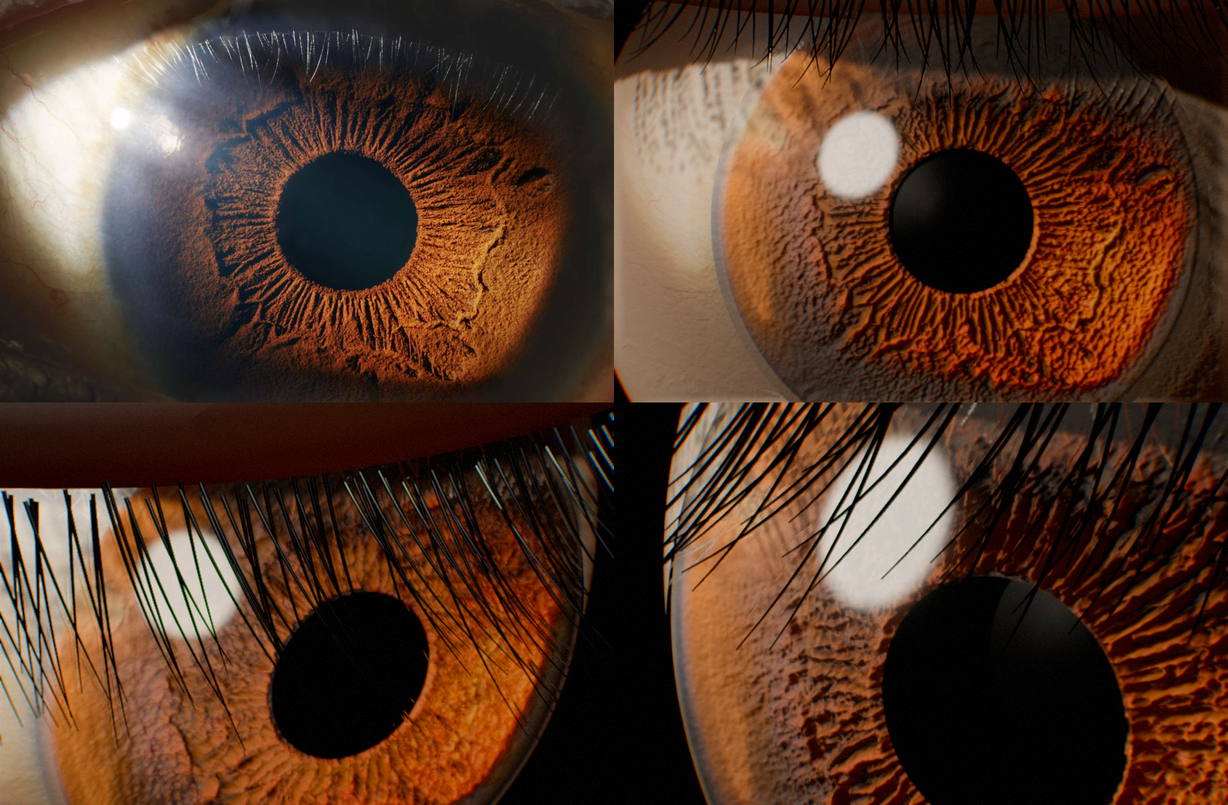
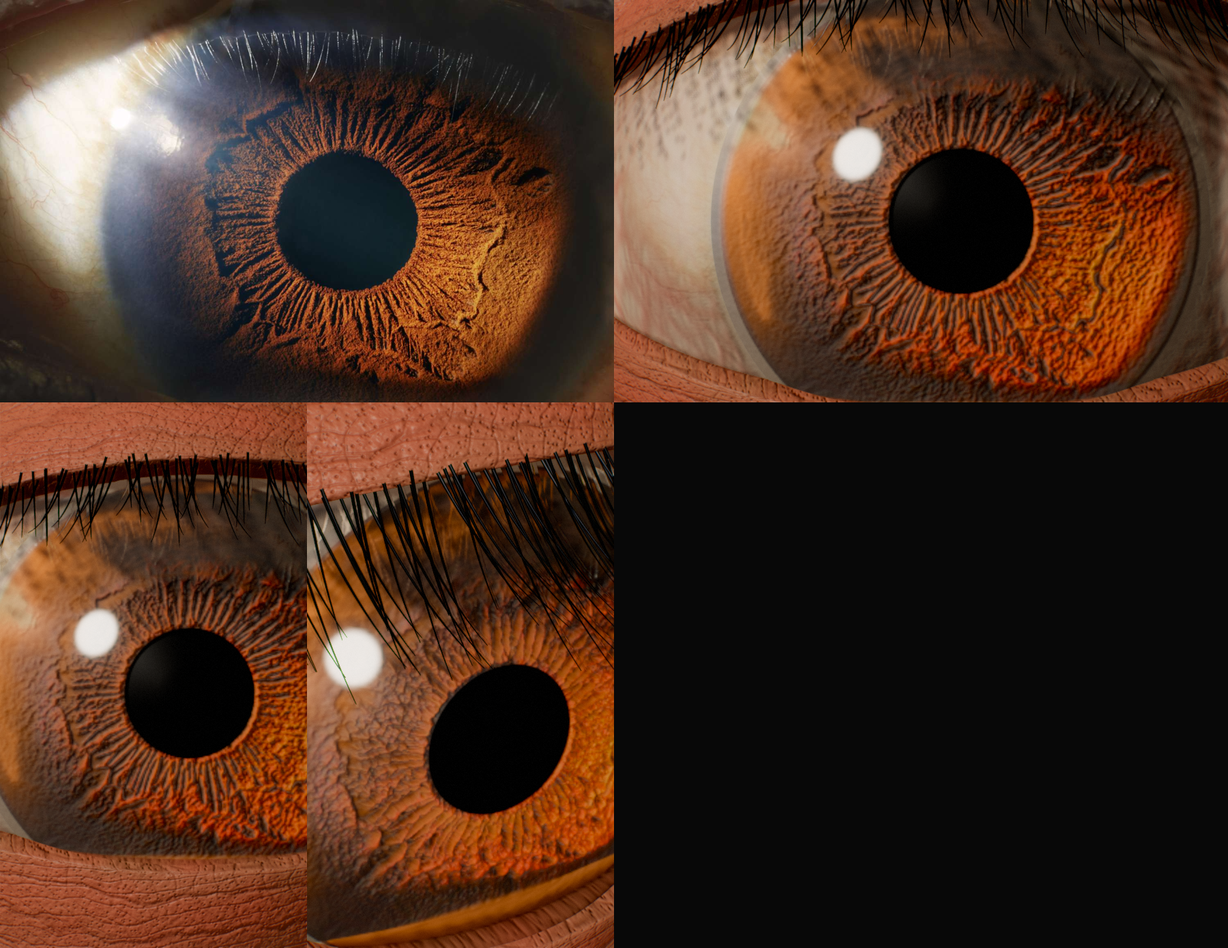
Iris: sharper on phones, real eyelids with skin texture, less plastic eye
- Resolution: new engine option minScale (governor floor); the scene keeps
  >= 0.8 render scale and re-voxelizes GI every 6th frame once converged.
- Eyelids: two skin sheets hugging the eyeball with an almond opening, rounded
  wet margins and an upper-lid crease (replaces the tube lids, no sclera gaps).
- Procedural skin maps (irregular pores, fine creases, blotchy colour, normals)
  at a scale that survives mipmapping; sclera map with blurred branching vessels.
- Velvety iris stroma, gentler relief, smaller corneal highlight, less chromatic
  aberration.

Claude-Session: https://claude.ai/code/session_01CrqiDHUxRRMtQAfhoBc2eP

diff --git a/scenes/iris.html b/scenes/iris.html
@@ -3968,7 +3968,7 @@ function gtPoll(){if(!tq)return;
   if(!dis&&ns>0){const ms=ns/1e6;GT[it.tag]=GT[it.tag]?GT[it.tag]*.9+ms*.1:ms;}}
  if(GT.pend.length>8){GT.pend.forEach(i=>gl.deleteQuery(i.q));GT.pend.length=0;}}
 const gov={hot:0,hist:[],good:0,hold:0,cap:1,capUntil:0,raised:0,pre:0,preScale:0,chk:0,tierCap:2,tierUntil:0};
-const PIXEL_FLOOR=/(Mobi|Android)/i.test(navigator.userAgent)?.5:.6;
+const PIXEL_FLOOR=opts.minScale||(/(Mobi|Android)/i.test(navigator.userAgent)?.5:.6);   /* opts.minScale: the governor never renders below this scale (it cuts tier / caps fps instead) */
 function dropTier(now,why){if(tierIdx>0){tierIdx--;gov.tierCap=tierIdx;gov.tierUntil=now+60000;applyTier();gov.why=why;}}
 function governor(dtMs,now){
  if(qMode!=='auto')return;gov.hist.push(dtMs);if(gov.hist.length>40)gov.hist.shift();
@@ -12714,7 +12714,7 @@ const $=id=>document.getElementById(id),errBox=$('err');
 const fail=m=>{errBox.style.display='block';errBox.textContent+=m+'\n';console.error(m);};
 addEventListener('error',e=>fail('JS: '+e.message+' (line '+e.lineno+')'));
 const Q=new URLSearchParams(location.search);
-const eng=createEngine({canvas:$('c'),onError:fail,onStats:s=>{$('stat').textContent=s;},
+const eng=createEngine({canvas:$('c'),minScale:.8,onError:fail,onStats:s=>{$('stat').textContent=s;},
  onFirstFrame:()=>{$('load').style.opacity='0';setTimeout(()=>{$('load').style.display='none';},900);}});
 if(!eng)return;
 const cam=eng.camera;
@@ -12732,7 +12732,7 @@ const HERO={pos:[PC[0],PC[1],PD],target:[PC[0],PC[1],0],fov:PFOV};
  for(let j=0;j<h;j++)for(let i=0;i<w;i++){const u=i/w,v=j/h,o=(j*w+i)*3,lon=(u-.5)*TAU,th=v*Math.PI,dir=[Math.sin(th)*Math.cos(lon),Math.cos(th),Math.sin(th)*Math.sin(lon)];
   let r=.004,g=.0035,b=.004;
   const k=v3.dot(dir,box),c=v3.dot(dir,card);
-  const sb=sstep(.955,.975,k);r+=60*sb;g+=57*sb;b+=53*sb;              /* softbox: a bright disc, soft rim */
+  const sb=sstep(.984,.992,k);r+=140*sb;g+=134*sb;b+=125*sb;              /* softbox: a bright disc, soft rim */
   const halo=Math.pow(Math.max(k,0),24);r+=.5*halo;g+=.45*halo;b+=.4*halo;
   const cc=sstep(.75,.9,c);r+=.1*cc;g+=.13*cc;b+=.18*cc;                 /* cool card: the blue sheen over the iris's left half */
   d[o]=r;d[o+1]=g;d[o+2]=b;}
@@ -12760,11 +12760,67 @@ function tube(pts,rad,seg){const vb=[],ib=[],n=pts.length;
 function mergeAll(list){let nv=0,ni=0;for(const g of list){nv+=g.vb.length/8;ni+=g.ib.length;}const vb=new Float32Array(nv*8),ib=new Uint32Array(ni);let ov=0,oi=0;
  for(const g of list){vb.set(g.vb,ov*8);for(let k=0;k<g.ib.length;k++)ib[oi+k]=g.ib[k]+ov;ov+=g.vb.length/8;oi+=g.ib.length;}return {vb,ib};}
 
+/* ---------- procedural maps: skin (pores, fine creases, blotchy colour) and sclera (conjunctival vessels) ---------- */
+function hash2(x,y){let h=(x*374761393+y*668265263)|0;h=Math.imul(h^(h>>>13),1274126177);return ((h^(h>>>16))>>>0)/4294967296;}
+function vnoiseT(x,y,P){const xi=Math.floor(x),yi=Math.floor(y),fx=x-xi,fy=y-yi,u=fx*fx*(3-2*fx),v=fy*fy*(3-2*fy);
+ const w=(a,b)=>hash2(((a%P)+P)%P,((b%P)+P)%P);return (w(xi,yi)*(1-u)+w(xi+1,yi)*u)*(1-v)+(w(xi,yi+1)*(1-u)+w(xi+1,yi+1)*u)*v;}
+function fbmT(x,y,P,o){let s=0,a=.5,f=1;for(let i=0;i<o;i++){s+=a*vnoiseT(x*f,y*f,P*f);a*=.5;f*=2;}return s;}
+/* pack height + colour + roughness fields into the engine's map array (normal from the height gradient, tileable) */
+function packMaps(N,H,col,rough,nk){const albedo=new Uint8Array(N*N*4),orm=new Uint8Array(N*N*4),normal=new Uint8Array(N*N*4);
+ for(let y=0;y<N;y++)for(let x=0;x<N;x++){const i=y*N+x,o=i*4,hx=H[y*N+(x+1)%N]-H[y*N+(x+N-1)%N],hy=H[((y+1)%N)*N+x]-H[((y+N-1)%N)*N+x];
+  let nx=-hx*nk,ny=-hy*nk;const l=Math.hypot(nx,ny,1);nx/=l;ny/=l;
+  albedo[o]=col[i*3];albedo[o+1]=col[i*3+1];albedo[o+2]=col[i*3+2];albedo[o+3]=255;
+  orm[o]=Math.round(255*Math.min(1,.55+H[i]*.6));orm[o+1]=Math.round(255*rough[i]);orm[o+2]=0;orm[o+3]=Math.round(255*H[i]);
+  normal[o]=Math.round((nx*.5+.5)*255);normal[o+1]=Math.round((ny*.5+.5)*255);normal[o+2]=255;normal[o+3]=255;}
+ return eng.createMaps({w:N,h:N,albedo,orm,normal});}
+function skinMaps(){const N=512,H=new Float32Array(N*N),col=new Uint8Array(N*N*3),ro=new Float32Array(N*N),C=64;
+ const pts=[];for(let j=0;j<C;j++)for(let i=0;i<C;i++)pts.push([(i+hash2(i,j*7+1))/C,(j+hash2(i*3+5,j))/C,.35+.65*hash2(i+11,j+29)]);
+ for(let y=0;y<N;y++)for(let x=0;x<N;x++){const u=x/N,v=y/N,ci=Math.floor(u*C),cj=Math.floor(v*C);let pore=0;
+  for(let dj=-1;dj<=1;dj++)for(let di=-1;di<=1;di++){const ii=(ci+di+C)%C,jj=(cj+dj+C)%C,p=pts[jj*C+ii];
+   let dx=u-(p[0]+(ci+di-ii)/C),dy=v-(p[1]+(cj+dj-jj)/C);const d2=(dx*dx+dy*dy)*C*C;if(p[2]>.55)pore=Math.max(pore,(p[2]-.45)*1.6*Math.exp(-d2/(.03*p[2])));}   /* irregular: some pores missing, depth varies */
+  const fine=fbmT(u*64,v*64,64,3),warp=fbmT(u*6,v*6,6,3);
+  /* creases run along the lid (u), wavering; plus a finer cross-hatch of skin lines */
+  const cr=.55*Math.pow(Math.abs(Math.sin((v*7+warp*1.2)*Math.PI)),40)+.35*Math.pow(Math.abs(Math.sin((v*19+u*3+warp*2.)*Math.PI)),60)
+   +.3*Math.pow(Math.abs(Math.sin((u*13-v*9+warp*2.5)*Math.PI)),70);
+  const h=.62+.2*(fine-.5)-.3*pore-.24*Math.min(cr,1);H[y*N+x]=Math.max(0,Math.min(1,h));
+  const bl=fbmT(u*5+3,v*5,5,4),fr=Math.pow(fbmT(u*40,v*40+9,40,2),6)*3;
+  const k=1-.1*pore-.12*Math.min(cr,1)-.1*fr-.06*(fine-.5);
+  col[(y*N+x)*3]=Math.round(Math.min(255,(196+26*bl)*k));col[(y*N+x)*3+1]=Math.round((146+12*(1-bl))*k*(1-.05*bl));col[(y*N+x)*3+2]=Math.round((128+8*(1-bl))*k);
+  ro[y*N+x]=Math.min(1,.82+.18*pore+.1*Math.min(cr,1)+.08*(fine-.5));}   /* multiplier on the material roughness */
+ return packMaps(N,H,col,ro,9);}
+function scleraMaps(){const N=512,V=new Float32Array(N*N),H=new Float32Array(N*N),col=new Uint8Array(N*N*3),ro=new Float32Array(N*N);
+ let s=7;const R=()=>{s=(Math.imul(s,1664525)+1013904223)>>>0;return s/4294967296;};
+ /* vessels: random walks from the back of the eye (v = 1) toward the limbus (v = 0), branching and thinning as they go */
+ const stamp=(x,y,w,a)=>{const r=Math.ceil(w*2+1);for(let dy=-r;dy<=r;dy++)for(let dx=-r;dx<=r;dx++){const d=Math.hypot(dx,dy);if(d>w*2+.5)continue;
+  const X=((Math.round(x)+dx)%N+N)%N,Y=Math.round(y)+dy;if(Y<0||Y>=N)continue;V[Y*N+X]=Math.max(V[Y*N+X],a*Math.exp(-d*d/(w*w*1.4+.3)));}};
+ const walk=(x,y,ang,w,a,depth)=>{for(let k=0;k<420&&y>N*.04&&w>.35;k++){ang+=(R()-.5)*.5;x+=Math.cos(ang)*1.5;y+=Math.sin(ang)*1.5-.25;
+  ang+=(-Math.PI/2-ang)*.02;stamp(x,y,w,a);w*=.997;a*=.999;if(depth<4&&R()<.012){walk(x,y,ang+(R()<.5?-1:1)*(.5+R()*.6),w*.7,a*.9,depth+1);}}};
+ for(let i=0;i<34;i++)walk(R()*N,N-1-R()*30,-Math.PI/2+(R()-.5)*.8,1.2+R()*1.4,.3+.35*R(),0);
+ /* soften: 2 box-blur passes so vessels read as blurred capillaries under the conjunctiva, not printed lines */
+ for(let pass=0;pass<2;pass++){const T=V.slice();for(let y=1;y<N-1;y++)for(let x=0;x<N;x++){let a=0;for(let dy=-1;dy<=1;dy++)for(let dx=-1;dx<=1;dx++)a+=T[(y+dy)*N+(x+dx+N)%N];V[y*N+x]=a/9;}}
+ for(let y=0;y<N;y++)for(let x=0;x<N;x++){const i=y*N+x,v=y/N,u=x/N,vs=V[i],mott=fbmT(u*12,v*12,12,4);
+  H[i]=.5+.25*vs+.06*(mott-.5);
+  const tint=Math.min(1,v*1.3),mott2=fbmT(u*5,v*5,5,3);   /* whiter at the limbus, a little pinker and yellower toward the back */
+  const base=[232-16*tint-6*mott2,222-24*tint-6*mott2,210-36*tint-6*mott2];
+  const vc=[150,34,30];col[i*3]=Math.round(base[0]*(1-vs)+vc[0]*vs);col[i*3+1]=Math.round(base[1]*(1-vs)+vc[1]*vs);col[i*3+2]=Math.round(base[2]*(1-vs)+vc[2]*vs);
+  ro[i]=.85+.15*mott;}
+ return packMaps(N,H,col,ro,6);}
+/* lid: a swept tube with metric uvs (repeats every 3 m) and a fold: radius grows into a soft crease above the margin */
+function lidTube(pts,R0,seg,crease,a0){const vb=[],ib=[],n=pts.length;let L=0;
+ for(let i=0;i<n;i++){if(i)L+=v3.len(v3.sub(pts[i],pts[i-1]));const a=pts[Math.max(i-1,0)],b=pts[Math.min(i+1,n-1)],t=v3.norm(v3.sub(b,a)),s=v3.norm(v3.cross(t,[0,1,0])),u=v3.cross(s,t);
+  const taper=Math.min(1,(1-Math.abs(i/(n-1)*2-1))*4);
+  for(let j=0;j<=seg;j++){const an=j/seg*TAU,da=Math.atan2(Math.sin(an-a0),Math.cos(an-a0));
+   const r=R0*(.55+.45*taper)*(1+crease*Math.exp(-da*da/.08)-crease*.6*Math.exp(-Math.pow(da-.42,2)/.02)+.012*Math.sin(an*7+L*.8));
+   const nn=v3.add(v3.mul(s,Math.cos(an)),v3.mul(u,Math.sin(an)));vb.push(...v3.add(pts[i],v3.mul(nn,r)),...nn,L/1.2,an*R0/1.2);}}
+ for(let i=0;i<n-1;i++)for(let j=0;j<seg;j++){const a=i*(seg+1)+j,b=a+seg+1;ib.push(a,a+1,b,a+1,b+1,b);}
+ return weldNormals({vb:new Float32Array(vb),ib:new Uint32Array(ib)});}
+const SKIN=skinMaps(),SCLERA=scleraMaps();
+
 /* ---------- the iris: a polar mesh displaced by the photo's relief ---------- */
 const HM=b64bytes(IRIS_H.b64),NA=IRIS_H.na,NR=IRIS_H.nr;
 const hAt=(ia,ir)=>HM[Math.min(Math.max(ir,0),NR-1)*NA+((ia%NA)+NA)%NA]/255;
 const irisBase=rho=>.5*Math.pow(1-rho,2)+.06*Math.exp(-Math.pow((rho-.33)/.07,2));   /* pupillary zone pushed forward by the lens, a soft collarette */
-const irisZ=(rho,h)=>irisBase(rho)+.24*(h-.5)*sstep(1,.86,rho)*sstep(0,.04,rho);
+const irisZ=(rho,h)=>irisBase(rho)+.15*(h-.5)*sstep(1,.86,rho)*sstep(0,.04,rho);
 const iris=(()=>{const SA=512,SR=NR,vb=new Float32Array((SA+1)*SR*8),ib=[];
  for(let j=0;j<SR;j++){const rho=j/(SR-1),r=RP+(RI-RP)*rho;
   for(let i=0;i<=SA;i++){const a=i/SA*TAU,ia=Math.round(i/SA*NA);
@@ -12773,7 +12829,7 @@ const iris=(()=>{const SA=512,SR=NR,vb=new Float32Array((SA+1)*SR*8),ib=[];
    const o=(j*(SA+1)+i)*8;vb[o]=Math.cos(a)*r;vb[o+1]=Math.sin(a)*r;vb[o+2]=irisZ(rho,h);vb[o+6]=i/SA;vb[o+7]=rho;}}
  for(let j=0;j<SR-1;j++)for(let i=0;i<SA;i++){const a=j*(SA+1)+i,b=a+SA+1;ib.push(a,b,a+1,a+1,b,b+1);}
  return weldNormals({vb,ib:new Uint32Array(ib)});})();
-add(iris,[0,0,0],{a:[.36,.15,.05],m:0,r:.82});
+add(iris,[0,0,0],{a:[.36,.15,.05],m:0,r:.72,fuzz:.35});   /* velvety stroma, not a glossy shell */
 /* pupil: the iris's inner lip rolls back into a dark well; the lens behind it is a faint glossy dome */
 const z0=irisBase(0);
 add(revolve([[RP*.97,-1.6],[RP*.98,-.8],[RP,z0-.15],[RP*1.01,z0]],96,false),[0,0,0],{a:[0,0,0],specular:[.0,.0,.0],glossiness:0,noProject:true});
@@ -12781,7 +12837,7 @@ add(revolve([[0,-1.15],[RP*.5,-1.22],[RP*.99,-1.45]],64,false),[0,0,0],{a:[0,0,0
 /* sclera: the eyeball (radius 8 m, centre 6.9 m behind the iris plane) with the limbus opening */
 const SC=[0,0,-6.9],SRAD=8,ph0=Math.asin(RI/SRAD);
 const scl=[];for(let k=0;k<=48;k++){const ph=ph0+(Math.PI*.75-ph0)*k/48;scl.push([SRAD*Math.sin(ph),SC[2]+SRAD*Math.cos(ph)]);}
-add(revolve(scl,128,false),[0,0,0],{a:[.42,.34,.28],m:0,r:.32,clearcoat:.6,clearcoatRough:.12,sheen:.2,sheenColor:[1,.85,.8]});
+add(revolve(scl,128,false),[0,0,0],{a:[1,1,1],maps:SCLERA,uvScale:1,m:0,r:.35,clearcoat:.8,clearcoatRough:.08});
 /* limbal ring: a slightly darker ring where iris meets sclera */
 add(revolve([[RI*.985,.02],[RI*1.03,-.05]],128,false),[0,0,0],{a:[.12,.07,.05],m:0,r:.5});
 /* cornea: a clear dome (radius 5.2 m) refracting the iris */
@@ -12789,15 +12845,29 @@ const CC=-2.8,CR=5.2,cmax=Math.asin(4.3/CR),cor=[];for(let k=0;k<=40;k++){const 
 if(Q.get('cornea')!=='0')add(revolve(cor,128,false),[0,0,0],{a:[1,1,1],m:0,r:.02,transparent:'glass',tint:[.99,.99,1],ior:1.376,dispersion:.004,thickness:.4,writeDepth:false},{castShadow:false});
 
 /* ---------- lids and lashes ---------- */
-const lidY=x=>3.95+.016*x*x,lidZ=x=>1.4-.018*x*x;
-const lidPts=[];for(let x=-13;x<=13;x+=.5)lidPts.push([x,lidY(x)+.9,lidZ(x)-.2]);
-const skin={a:[.26,.13,.09],m:0,r:.5,mode:'skin'};
-add(tube(lidPts,()=>1.55,24),[0,0,0],skin);
-const lowPts=[];for(let x=-13;x<=13;x+=.5)lowPts.push([x,-4.9-.012*x*x,1.1-.016*x*x]);
-add(tube(lowPts,()=>1.25,24),[0,0,0],skin);
+/* eyelids: two skin sheets that hug the eyeball and leave an almond-shaped opening. Each sheet starts with a rounded, wet
+   margin rolling back onto the eye, then rises over the globe (upper lid crease, thicker skin away from the margin). Metric uvs. */
+const FX=9.6;                                                    /* eye corners */
+const lidU=x=>{const q=Math.max(0,1-(x/FX)**2);return 4.35*Math.pow(q,.55)+.25*x/FX;};   /* upper margin (slightly higher at the outer corner) */
+const lidL=x=>{const q=Math.max(0,1-(x/FX)**2);return -3.2*Math.pow(q,.7);};
+const eyeZ=(x,y)=>{const r2=x*x+y*y;return r2<63.5?SC[2]+Math.sqrt(64-r2):SC[2]+Math.sqrt(.5)-(Math.sqrt(r2)-Math.sqrt(63.5))*.45;};
+function lidSheet(edge,dir,crease){const NX=96,NT=40,vb=[],ib=[];
+ for(let j=0;j<=NT;j++){for(let i=0;i<=NX;i++){const x=(i/NX-.5)*32,y0=edge(x);let y,z;
+   if(j<6){const a=j/5*Math.PI/2;                                 /* margin roll: from the eye surface out to the lid front */
+    y=y0-dir*.32*Math.sin(a*2)*.6;z=eyeZ(x,y0)+.08+1.05*(1-Math.cos(a));}
+   else{const t=(j-5)/(NT-5),far=dir>0?13:-13;y=y0+(far-y0)*Math.pow(t,1.35);
+    const T=1.13+.75*t-crease*Math.exp(-Math.pow((t-.3)/.06,2))+.18*Math.exp(-Math.pow((t-.42)/.12,2));
+    z=eyeZ(x,y)+T+.04*Math.sin(x*.9+t*7);}
+   vb.push(x,y,z,0,0,0,x/6,(y-y0)*dir/6+j*.005);}}
+ for(let j=0;j<NT;j++)for(let i=0;i<NX;i++){const a=j*(NX+1)+i,b=a+NX+1;if(dir>0)ib.push(a,a+1,b,a+1,b+1,b);else ib.push(a,b,a+1,a+1,b,b+1);}
+ return weldNormals({vb:new Float32Array(vb),ib:new Uint32Array(ib)});}
+const skin={a:[.62,.5,.45],maps:SKIN,uvScale:1,m:0,r:.72,mode:'skin',noProject:true};
+add(lidSheet(lidU,1,.32),[0,0,0],skin);
+add(lidSheet(lidL,-1,.12),[0,0,0],skin);
+const lidY=x=>lidU(x)+.1,lidZ=x=>eyeZ(x,lidU(x))+.25;            /* lash roots sit on the upper margin */
 /* ~170 lashes rooted along the upper lid margin: they leave forward and down, then curl up; thin, tapering, glossy */
 const lashes=[];
-for(let k=0;k<170;k++){const x=-9.5+19*(k+rnd()*.8)/170,b=[x+(rnd()-.5)*.2,lidY(x)-.35+(rnd()-.5)*.25,lidZ(x)+1.05+rnd()*.3];
+for(let k=0;k<170;k++){const x=-8.6+17.2*(k+rnd()*.8)/170,b=[x+(rnd()-.5)*.2,lidY(x)+(rnd()-.5)*.2,lidZ(x)+.7+rnd()*.3];
  const L=2.1+1.4*rnd()*(1-Math.abs(x)/14),side=x*.02+(rnd()-.5)*.35,curl=.9+.7*rnd();
  const d0=v3.norm([side,-.75,.62]);const pts=[];let p=b.slice(),d=d0.slice();
  for(let i=0;i<12;i++){pts.push(p.slice());d=v3.norm(v3.add(d,[0,curl*.035,.02]));p=v3.add(p,v3.mul(d,L/11));}
@@ -12823,12 +12893,12 @@ let proj=null,projOn=Q.get('proj')!=='0';
    self-shadowing against the sun key, cavity AO and roughness estimated from the photo */
 if(typeof Image!=='undefined'){const img=new Image(),hm=new Image();   /* albedo plate (prep: haze and fall-off taken out), height plate */let n=0;const go=()=>{if(++n<2)return;
  proj=eng.addProjector({image:img,height:hm,pos:HERO.pos,target:HERO.target,fov:HERO.fov,aspect:IRIS_H.w/IRIS_H.h,mode:Q.get('pm')||'albedo',
-  delight:Q.has('dl')?+Q.get('dl'):0,highlights:1,relief:Q.has('relief')?+Q.get('relief'):.16,reliefShadow:1,ao:.65,roughness:'auto',detail:.4,
+  delight:Q.has('dl')?+Q.get('dl'):0,highlights:1,relief:Q.has('relief')?+Q.get('relief'):.1,reliefShadow:.75,ao:.5,roughness:'auto',detail:.4,
   angle:Q.has('ang')?+Q.get('ang'):86,edge:.02,occlusion:Q.get('occ')!=='0',bias:.06,static:true,on:projOn,naive:Q.get('naive')==='1'});};
  img.onload=go;hm.onload=go;img.src=IRIS_ALBEDO;hm.src=IRIS_HEIGHT;}
 
 /* ---------- camera ---------- */
-eng.setPost({tone:'agx',look:[1.18,1.2],saturation:1.12,curve:.3,bloom:.06,threshold:1.4,knee:.5,grain:.03,chromatic:.01,vignette:.85,flare:0,dirt:0,
+eng.setPost({tone:'agx',look:[1.18,1.2],saturation:1.12,curve:.3,bloom:.06,threshold:1.4,knee:.5,grain:.02,chromatic:.003,vignette:.85,flare:0,dirt:0,
  dofMaxCoC:Q.get('dof')==='0'?0:6,exposure:Q.has('ex')?+Q.get('ex'):.5});
 cam.fstop=5.6;cam.bokehScale=Q.get('dof')==='0'?0:1.6;cam.shutterAngle=180;
 function makeOrbit(canvas,o){
@@ -12875,7 +12945,9 @@ const orbit=makeOrbit($('c'),{minZoom:.25,maxZoom:2.2,floorY:-40,onMode:m=>{$('b
  /* [t, yaw, pitch, zoom, pan] around the photo's own camera */
  film:{dur:56,keys:[[0,0,0,1],[7,0,0,.97],[15,.05,.02,.5,[.68,-.34,0]],[23,.62,-.12,.62,[.4,-.2,0]],[31,.5,.42,.78,[.3,.6,0]],[39,-.55,.25,.55,[-.5,.4,0]],[47,-.25,-.1,.85,[0,0,0]]]}});
 let T=0;
-function frameCam(dt){T+=dt;const b=1+.004*Math.sin(T*.7);
+let giSlow=false;
+function frameCam(dt){T+=dt;if(gi&&!giSlow&&T>5){giSlow=true;eng.setGI({rate:6});}   /* static set: once converged, re-voxelize every 6th frame */
+const b=1+.004*Math.sin(T*.7);
  cam.pos=[HERO.pos[0],HERO.pos[1],HERO.pos[2]*b];cam.target=HERO.target.slice();
  const wide=window.innerWidth/Math.max(window.innerHeight,1);cam.fov=wide>=1.4?HERO.fov:HERO.fov*1.5;
  cam.focusTarget=[0,0,.35];}

diff --git a/scenes/iris.scene.js b/scenes/iris.scene.js
@@ -16,7 +16,7 @@ const $=id=>document.getElementById(id),errBox=$('err');
 const fail=m=>{errBox.style.display='block';errBox.textContent+=m+'\n';console.error(m);};
 addEventListener('error',e=>fail('JS: '+e.message+' (line '+e.lineno+')'));
 const Q=new URLSearchParams(location.search);
-const eng=createEngine({canvas:$('c'),onError:fail,onStats:s=>{$('stat').textContent=s;},
+const eng=createEngine({canvas:$('c'),minScale:.8,onError:fail,onStats:s=>{$('stat').textContent=s;},
  onFirstFrame:()=>{$('load').style.opacity='0';setTimeout(()=>{$('load').style.display='none';},900);}});
 if(!eng)return;
 const cam=eng.camera;
@@ -34,7 +34,7 @@ const HERO={pos:[PC[0],PC[1],PD],target:[PC[0],PC[1],0],fov:PFOV};
  for(let j=0;j<h;j++)for(let i=0;i<w;i++){const u=i/w,v=j/h,o=(j*w+i)*3,lon=(u-.5)*TAU,th=v*Math.PI,dir=[Math.sin(th)*Math.cos(lon),Math.cos(th),Math.sin(th)*Math.sin(lon)];
   let r=.004,g=.0035,b=.004;
   const k=v3.dot(dir,box),c=v3.dot(dir,card);
-  const sb=sstep(.955,.975,k);r+=60*sb;g+=57*sb;b+=53*sb;              /* softbox: a bright disc, soft rim */
+  const sb=sstep(.984,.992,k);r+=140*sb;g+=134*sb;b+=125*sb;              /* softbox: a bright disc, soft rim */
   const halo=Math.pow(Math.max(k,0),24);r+=.5*halo;g+=.45*halo;b+=.4*halo;
   const cc=sstep(.75,.9,c);r+=.1*cc;g+=.13*cc;b+=.18*cc;                 /* cool card: the blue sheen over the iris's left half */
   d[o]=r;d[o+1]=g;d[o+2]=b;}
@@ -62,11 +62,67 @@ function tube(pts,rad,seg){const vb=[],ib=[],n=pts.length;
 function mergeAll(list){let nv=0,ni=0;for(const g of list){nv+=g.vb.length/8;ni+=g.ib.length;}const vb=new Float32Array(nv*8),ib=new Uint32Array(ni);let ov=0,oi=0;
  for(const g of list){vb.set(g.vb,ov*8);for(let k=0;k<g.ib.length;k++)ib[oi+k]=g.ib[k]+ov;ov+=g.vb.length/8;oi+=g.ib.length;}return {vb,ib};}
 
+/* ---------- procedural maps: skin (pores, fine creases, blotchy colour) and sclera (conjunctival vessels) ---------- */
+function hash2(x,y){let h=(x*374761393+y*668265263)|0;h=Math.imul(h^(h>>>13),1274126177);return ((h^(h>>>16))>>>0)/4294967296;}
+function vnoiseT(x,y,P){const xi=Math.floor(x),yi=Math.floor(y),fx=x-xi,fy=y-yi,u=fx*fx*(3-2*fx),v=fy*fy*(3-2*fy);
+ const w=(a,b)=>hash2(((a%P)+P)%P,((b%P)+P)%P);return (w(xi,yi)*(1-u)+w(xi+1,yi)*u)*(1-v)+(w(xi,yi+1)*(1-u)+w(xi+1,yi+1)*u)*v;}
+function fbmT(x,y,P,o){let s=0,a=.5,f=1;for(let i=0;i<o;i++){s+=a*vnoiseT(x*f,y*f,P*f);a*=.5;f*=2;}return s;}
+/* pack height + colour + roughness fields into the engine's map array (normal from the height gradient, tileable) */
+function packMaps(N,H,col,rough,nk){const albedo=new Uint8Array(N*N*4),orm=new Uint8Array(N*N*4),normal=new Uint8Array(N*N*4);
+ for(let y=0;y<N;y++)for(let x=0;x<N;x++){const i=y*N+x,o=i*4,hx=H[y*N+(x+1)%N]-H[y*N+(x+N-1)%N],hy=H[((y+1)%N)*N+x]-H[((y+N-1)%N)*N+x];
+  let nx=-hx*nk,ny=-hy*nk;const l=Math.hypot(nx,ny,1);nx/=l;ny/=l;
+  albedo[o]=col[i*3];albedo[o+1]=col[i*3+1];albedo[o+2]=col[i*3+2];albedo[o+3]=255;
+  orm[o]=Math.round(255*Math.min(1,.55+H[i]*.6));orm[o+1]=Math.round(255*rough[i]);orm[o+2]=0;orm[o+3]=Math.round(255*H[i]);
+  normal[o]=Math.round((nx*.5+.5)*255);normal[o+1]=Math.round((ny*.5+.5)*255);normal[o+2]=255;normal[o+3]=255;}
+ return eng.createMaps({w:N,h:N,albedo,orm,normal});}
+function skinMaps(){const N=512,H=new Float32Array(N*N),col=new Uint8Array(N*N*3),ro=new Float32Array(N*N),C=64;
+ const pts=[];for(let j=0;j<C;j++)for(let i=0;i<C;i++)pts.push([(i+hash2(i,j*7+1))/C,(j+hash2(i*3+5,j))/C,.35+.65*hash2(i+11,j+29)]);
+ for(let y=0;y<N;y++)for(let x=0;x<N;x++){const u=x/N,v=y/N,ci=Math.floor(u*C),cj=Math.floor(v*C);let pore=0;
+  for(let dj=-1;dj<=1;dj++)for(let di=-1;di<=1;di++){const ii=(ci+di+C)%C,jj=(cj+dj+C)%C,p=pts[jj*C+ii];
+   let dx=u-(p[0]+(ci+di-ii)/C),dy=v-(p[1]+(cj+dj-jj)/C);const d2=(dx*dx+dy*dy)*C*C;if(p[2]>.55)pore=Math.max(pore,(p[2]-.45)*1.6*Math.exp(-d2/(.03*p[2])));}   /* irregular: some pores missing, depth varies */
+  const fine=fbmT(u*64,v*64,64,3),warp=fbmT(u*6,v*6,6,3);
+  /* creases run along the lid (u), wavering; plus a finer cross-hatch of skin lines */
+  const cr=.55*Math.pow(Math.abs(Math.sin((v*7+warp*1.2)*Math.PI)),40)+.35*Math.pow(Math.abs(Math.sin((v*19+u*3+warp*2.)*Math.PI)),60)
+   +.3*Math.pow(Math.abs(Math.sin((u*13-v*9+warp*2.5)*Math.PI)),70);
+  const h=.62+.2*(fine-.5)-.3*pore-.24*Math.min(cr,1);H[y*N+x]=Math.max(0,Math.min(1,h));
+  const bl=fbmT(u*5+3,v*5,5,4),fr=Math.pow(fbmT(u*40,v*40+9,40,2),6)*3;
+  const k=1-.1*pore-.12*Math.min(cr,1)-.1*fr-.06*(fine-.5);
+  col[(y*N+x)*3]=Math.round(Math.min(255,(196+26*bl)*k));col[(y*N+x)*3+1]=Math.round((146+12*(1-bl))*k*(1-.05*bl));col[(y*N+x)*3+2]=Math.round((128+8*(1-bl))*k);
+  ro[y*N+x]=Math.min(1,.82+.18*pore+.1*Math.min(cr,1)+.08*(fine-.5));}   /* multiplier on the material roughness */
+ return packMaps(N,H,col,ro,9);}
+function scleraMaps(){const N=512,V=new Float32Array(N*N),H=new Float32Array(N*N),col=new Uint8Array(N*N*3),ro=new Float32Array(N*N);
+ let s=7;const R=()=>{s=(Math.imul(s,1664525)+1013904223)>>>0;return s/4294967296;};
+ /* vessels: random walks from the back of the eye (v = 1) toward the limbus (v = 0), branching and thinning as they go */
+ const stamp=(x,y,w,a)=>{const r=Math.ceil(w*2+1);for(let dy=-r;dy<=r;dy++)for(let dx=-r;dx<=r;dx++){const d=Math.hypot(dx,dy);if(d>w*2+.5)continue;
+  const X=((Math.round(x)+dx)%N+N)%N,Y=Math.round(y)+dy;if(Y<0||Y>=N)continue;V[Y*N+X]=Math.max(V[Y*N+X],a*Math.exp(-d*d/(w*w*1.4+.3)));}};
+ const walk=(x,y,ang,w,a,depth)=>{for(let k=0;k<420&&y>N*.04&&w>.35;k++){ang+=(R()-.5)*.5;x+=Math.cos(ang)*1.5;y+=Math.sin(ang)*1.5-.25;
+  ang+=(-Math.PI/2-ang)*.02;stamp(x,y,w,a);w*=.997;a*=.999;if(depth<4&&R()<.012){walk(x,y,ang+(R()<.5?-1:1)*(.5+R()*.6),w*.7,a*.9,depth+1);}}};
+ for(let i=0;i<34;i++)walk(R()*N,N-1-R()*30,-Math.PI/2+(R()-.5)*.8,1.2+R()*1.4,.3+.35*R(),0);
+ /* soften: 2 box-blur passes so vessels read as blurred capillaries under the conjunctiva, not printed lines */
+ for(let pass=0;pass<2;pass++){const T=V.slice();for(let y=1;y<N-1;y++)for(let x=0;x<N;x++){let a=0;for(let dy=-1;dy<=1;dy++)for(let dx=-1;dx<=1;dx++)a+=T[(y+dy)*N+(x+dx+N)%N];V[y*N+x]=a/9;}}
+ for(let y=0;y<N;y++)for(let x=0;x<N;x++){const i=y*N+x,v=y/N,u=x/N,vs=V[i],mott=fbmT(u*12,v*12,12,4);
+  H[i]=.5+.25*vs+.06*(mott-.5);
+  const tint=Math.min(1,v*1.3),mott2=fbmT(u*5,v*5,5,3);   /* whiter at the limbus, a little pinker and yellower toward the back */
+  const base=[232-16*tint-6*mott2,222-24*tint-6*mott2,210-36*tint-6*mott2];
+  const vc=[150,34,30];col[i*3]=Math.round(base[0]*(1-vs)+vc[0]*vs);col[i*3+1]=Math.round(base[1]*(1-vs)+vc[1]*vs);col[i*3+2]=Math.round(base[2]*(1-vs)+vc[2]*vs);
+  ro[i]=.85+.15*mott;}
+ return packMaps(N,H,col,ro,6);}
+/* lid: a swept tube with metric uvs (repeats every 3 m) and a fold: radius grows into a soft crease above the margin */
+function lidTube(pts,R0,seg,crease,a0){const vb=[],ib=[],n=pts.length;let L=0;
+ for(let i=0;i<n;i++){if(i)L+=v3.len(v3.sub(pts[i],pts[i-1]));const a=pts[Math.max(i-1,0)],b=pts[Math.min(i+1,n-1)],t=v3.norm(v3.sub(b,a)),s=v3.norm(v3.cross(t,[0,1,0])),u=v3.cross(s,t);
+  const taper=Math.min(1,(1-Math.abs(i/(n-1)*2-1))*4);
+  for(let j=0;j<=seg;j++){const an=j/seg*TAU,da=Math.atan2(Math.sin(an-a0),Math.cos(an-a0));
+   const r=R0*(.55+.45*taper)*(1+crease*Math.exp(-da*da/.08)-crease*.6*Math.exp(-Math.pow(da-.42,2)/.02)+.012*Math.sin(an*7+L*.8));
+   const nn=v3.add(v3.mul(s,Math.cos(an)),v3.mul(u,Math.sin(an)));vb.push(...v3.add(pts[i],v3.mul(nn,r)),...nn,L/1.2,an*R0/1.2);}}
+ for(let i=0;i<n-1;i++)for(let j=0;j<seg;j++){const a=i*(seg+1)+j,b=a+seg+1;ib.push(a,a+1,b,a+1,b+1,b);}
+ return weldNormals({vb:new Float32Array(vb),ib:new Uint32Array(ib)});}
+const SKIN=skinMaps(),SCLERA=scleraMaps();
+
 /* ---------- the iris: a polar mesh displaced by the photo's relief ---------- */
 const HM=b64bytes(IRIS_H.b64),NA=IRIS_H.na,NR=IRIS_H.nr;
 const hAt=(ia,ir)=>HM[Math.min(Math.max(ir,0),NR-1)*NA+((ia%NA)+NA)%NA]/255;
 const irisBase=rho=>.5*Math.pow(1-rho,2)+.06*Math.exp(-Math.pow((rho-.33)/.07,2));   /* pupillary zone pushed forward by the lens, a soft collarette */
-const irisZ=(rho,h)=>irisBase(rho)+.24*(h-.5)*sstep(1,.86,rho)*sstep(0,.04,rho);
+const irisZ=(rho,h)=>irisBase(rho)+.15*(h-.5)*sstep(1,.86,rho)*sstep(0,.04,rho);
 const iris=(()=>{const SA=512,SR=NR,vb=new Float32Array((SA+1)*SR*8),ib=[];
  for(let j=0;j<SR;j++){const rho=j/(SR-1),r=RP+(RI-RP)*rho;
   for(let i=0;i<=SA;i++){const a=i/SA*TAU,ia=Math.round(i/SA*NA);
@@ -75,7 +131,7 @@ const iris=(()=>{const SA=512,SR=NR,vb=new Float32Array((SA+1)*SR*8),ib=[];
    const o=(j*(SA+1)+i)*8;vb[o]=Math.cos(a)*r;vb[o+1]=Math.sin(a)*r;vb[o+2]=irisZ(rho,h);vb[o+6]=i/SA;vb[o+7]=rho;}}
  for(let j=0;j<SR-1;j++)for(let i=0;i<SA;i++){const a=j*(SA+1)+i,b=a+SA+1;ib.push(a,b,a+1,a+1,b,b+1);}
  return weldNormals({vb,ib:new Uint32Array(ib)});})();
-add(iris,[0,0,0],{a:[.36,.15,.05],m:0,r:.82});
+add(iris,[0,0,0],{a:[.36,.15,.05],m:0,r:.72,fuzz:.35});   /* velvety stroma, not a glossy shell */
 /* pupil: the iris's inner lip rolls back into a dark well; the lens behind it is a faint glossy dome */
 const z0=irisBase(0);
 add(revolve([[RP*.97,-1.6],[RP*.98,-.8],[RP,z0-.15],[RP*1.01,z0]],96,false),[0,0,0],{a:[0,0,0],specular:[.0,.0,.0],glossiness:0,noProject:true});
@@ -83,7 +139,7 @@ add(revolve([[0,-1.15],[RP*.5,-1.22],[RP*.99,-1.45]],64,false),[0,0,0],{a:[0,0,0
 /* sclera: the eyeball (radius 8 m, centre 6.9 m behind the iris plane) with the limbus opening */
 const SC=[0,0,-6.9],SRAD=8,ph0=Math.asin(RI/SRAD);
 const scl=[];for(let k=0;k<=48;k++){const ph=ph0+(Math.PI*.75-ph0)*k/48;scl.push([SRAD*Math.sin(ph),SC[2]+SRAD*Math.cos(ph)]);}
-add(revolve(scl,128,false),[0,0,0],{a:[.42,.34,.28],m:0,r:.32,clearcoat:.6,clearcoatRough:.12,sheen:.2,sheenColor:[1,.85,.8]});
+add(revolve(scl,128,false),[0,0,0],{a:[1,1,1],maps:SCLERA,uvScale:1,m:0,r:.35,clearcoat:.8,clearcoatRough:.08});
 /* limbal ring: a slightly darker ring where iris meets sclera */
 add(revolve([[RI*.985,.02],[RI*1.03,-.05]],128,false),[0,0,0],{a:[.12,.07,.05],m:0,r:.5});
 /* cornea: a clear dome (radius 5.2 m) refracting the iris */
@@ -91,15 +147,29 @@ const CC=-2.8,CR=5.2,cmax=Math.asin(4.3/CR),cor=[];for(let k=0;k<=40;k++){const 
 if(Q.get('cornea')!=='0')add(revolve(cor,128,false),[0,0,0],{a:[1,1,1],m:0,r:.02,transparent:'glass',tint:[.99,.99,1],ior:1.376,dispersion:.004,thickness:.4,writeDepth:false},{castShadow:false});
 
 /* ---------- lids and lashes ---------- */
-const lidY=x=>3.95+.016*x*x,lidZ=x=>1.4-.018*x*x;
-const lidPts=[];for(let x=-13;x<=13;x+=.5)lidPts.push([x,lidY(x)+.9,lidZ(x)-.2]);
-const skin={a:[.26,.13,.09],m:0,r:.5,mode:'skin'};
-add(tube(lidPts,()=>1.55,24),[0,0,0],skin);
-const lowPts=[];for(let x=-13;x<=13;x+=.5)lowPts.push([x,-4.9-.012*x*x,1.1-.016*x*x]);
-add(tube(lowPts,()=>1.25,24),[0,0,0],skin);
+/* eyelids: two skin sheets that hug the eyeball and leave an almond-shaped opening. Each sheet starts with a rounded, wet
+   margin rolling back onto the eye, then rises over the globe (upper lid crease, thicker skin away from the margin). Metric uvs. */
+const FX=9.6;                                                    /* eye corners */
+const lidU=x=>{const q=Math.max(0,1-(x/FX)**2);return 4.35*Math.pow(q,.55)+.25*x/FX;};   /* upper margin (slightly higher at the outer corner) */
+const lidL=x=>{const q=Math.max(0,1-(x/FX)**2);return -3.2*Math.pow(q,.7);};
+const eyeZ=(x,y)=>{const r2=x*x+y*y;return r2<63.5?SC[2]+Math.sqrt(64-r2):SC[2]+Math.sqrt(.5)-(Math.sqrt(r2)-Math.sqrt(63.5))*.45;};
+function lidSheet(edge,dir,crease){const NX=96,NT=40,vb=[],ib=[];
+ for(let j=0;j<=NT;j++){for(let i=0;i<=NX;i++){const x=(i/NX-.5)*32,y0=edge(x);let y,z;
+   if(j<6){const a=j/5*Math.PI/2;                                 /* margin roll: from the eye surface out to the lid front */
+    y=y0-dir*.32*Math.sin(a*2)*.6;z=eyeZ(x,y0)+.08+1.05*(1-Math.cos(a));}
+   else{const t=(j-5)/(NT-5),far=dir>0?13:-13;y=y0+(far-y0)*Math.pow(t,1.35);
+    const T=1.13+.75*t-crease*Math.exp(-Math.pow((t-.3)/.06,2))+.18*Math.exp(-Math.pow((t-.42)/.12,2));
+    z=eyeZ(x,y)+T+.04*Math.sin(x*.9+t*7);}
+   vb.push(x,y,z,0,0,0,x/6,(y-y0)*dir/6+j*.005);}}
+ for(let j=0;j<NT;j++)for(let i=0;i<NX;i++){const a=j*(NX+1)+i,b=a+NX+1;if(dir>0)ib.push(a,a+1,b,a+1,b+1,b);else ib.push(a,b,a+1,a+1,b,b+1);}
+ return weldNormals({vb:new Float32Array(vb),ib:new Uint32Array(ib)});}
+const skin={a:[.62,.5,.45],maps:SKIN,uvScale:1,m:0,r:.72,mode:'skin',noProject:true};
+add(lidSheet(lidU,1,.32),[0,0,0],skin);
+add(lidSheet(lidL,-1,.12),[0,0,0],skin);
+const lidY=x=>lidU(x)+.1,lidZ=x=>eyeZ(x,lidU(x))+.25;            /* lash roots sit on the upper margin */
 /* ~170 lashes rooted along the upper lid margin: they leave forward and down, then curl up; thin, tapering, glossy */
 const lashes=[];
-for(let k=0;k<170;k++){const x=-9.5+19*(k+rnd()*.8)/170,b=[x+(rnd()-.5)*.2,lidY(x)-.35+(rnd()-.5)*.25,lidZ(x)+1.05+rnd()*.3];
+for(let k=0;k<170;k++){const x=-8.6+17.2*(k+rnd()*.8)/170,b=[x+(rnd()-.5)*.2,lidY(x)+(rnd()-.5)*.2,lidZ(x)+.7+rnd()*.3];
  const L=2.1+1.4*rnd()*(1-Math.abs(x)/14),side=x*.02+(rnd()-.5)*.35,curl=.9+.7*rnd();
  const d0=v3.norm([side,-.75,.62]);const pts=[];let p=b.slice(),d=d0.slice();
  for(let i=0;i<12;i++){pts.push(p.slice());d=v3.norm(v3.add(d,[0,curl*.035,.02]));p=v3.add(p,v3.mul(d,L/11));}
@@ -125,12 +195,12 @@ let proj=null,projOn=Q.get('proj')!=='0';
    self-shadowing against the sun key, cavity AO and roughness estimated from the photo */
 if(typeof Image!=='undefined'){const img=new Image(),hm=new Image();   /* albedo plate (prep: haze and fall-off taken out), height plate */let n=0;const go=()=>{if(++n<2)return;
  proj=eng.addProjector({image:img,height:hm,pos:HERO.pos,target:HERO.target,fov:HERO.fov,aspect:IRIS_H.w/IRIS_H.h,mode:Q.get('pm')||'albedo',
-  delight:Q.has('dl')?+Q.get('dl'):0,highlights:1,relief:Q.has('relief')?+Q.get('relief'):.16,reliefShadow:1,ao:.65,roughness:'auto',detail:.4,
+  delight:Q.has('dl')?+Q.get('dl'):0,highlights:1,relief:Q.has('relief')?+Q.get('relief'):.1,reliefShadow:.75,ao:.5,roughness:'auto',detail:.4,
   angle:Q.has('ang')?+Q.get('ang'):86,edge:.02,occlusion:Q.get('occ')!=='0',bias:.06,static:true,on:projOn,naive:Q.get('naive')==='1'});};
  img.onload=go;hm.onload=go;img.src=IRIS_ALBEDO;hm.src=IRIS_HEIGHT;}
 
 /* ---------- camera ---------- */
-eng.setPost({tone:'agx',look:[1.18,1.2],saturation:1.12,curve:.3,bloom:.06,threshold:1.4,knee:.5,grain:.03,chromatic:.01,vignette:.85,flare:0,dirt:0,
+eng.setPost({tone:'agx',look:[1.18,1.2],saturation:1.12,curve:.3,bloom:.06,threshold:1.4,knee:.5,grain:.02,chromatic:.003,vignette:.85,flare:0,dirt:0,
  dofMaxCoC:Q.get('dof')==='0'?0:6,exposure:Q.has('ex')?+Q.get('ex'):.5});
 cam.fstop=5.6;cam.bokehScale=Q.get('dof')==='0'?0:1.6;cam.shutterAngle=180;
 function makeOrbit(canvas,o){
@@ -177,7 +247,9 @@ const orbit=makeOrbit($('c'),{minZoom:.25,maxZoom:2.2,floorY:-40,onMode:m=>{$('b
  /* [t, yaw, pitch, zoom, pan] around the photo's own camera */
  film:{dur:56,keys:[[0,0,0,1],[7,0,0,.97],[15,.05,.02,.5,[.68,-.34,0]],[23,.62,-.12,.62,[.4,-.2,0]],[31,.5,.42,.78,[.3,.6,0]],[39,-.55,.25,.55,[-.5,.4,0]],[47,-.25,-.1,.85,[0,0,0]]]}});
 let T=0;
-function frameCam(dt){T+=dt;const b=1+.004*Math.sin(T*.7);
+let giSlow=false;
+function frameCam(dt){T+=dt;if(gi&&!giSlow&&T>5){giSlow=true;eng.setGI({rate:6});}   /* static set: once converged, re-voxelize every 6th frame */
+const b=1+.004*Math.sin(T*.7);
  cam.pos=[HERO.pos[0],HERO.pos[1],HERO.pos[2]*b];cam.target=HERO.target.slice();
  const wide=window.innerWidth/Math.max(window.innerHeight,1);cam.fov=wide>=1.4?HERO.fov:HERO.fov*1.5;
  cam.focusTarget=[0,0,.35];}
